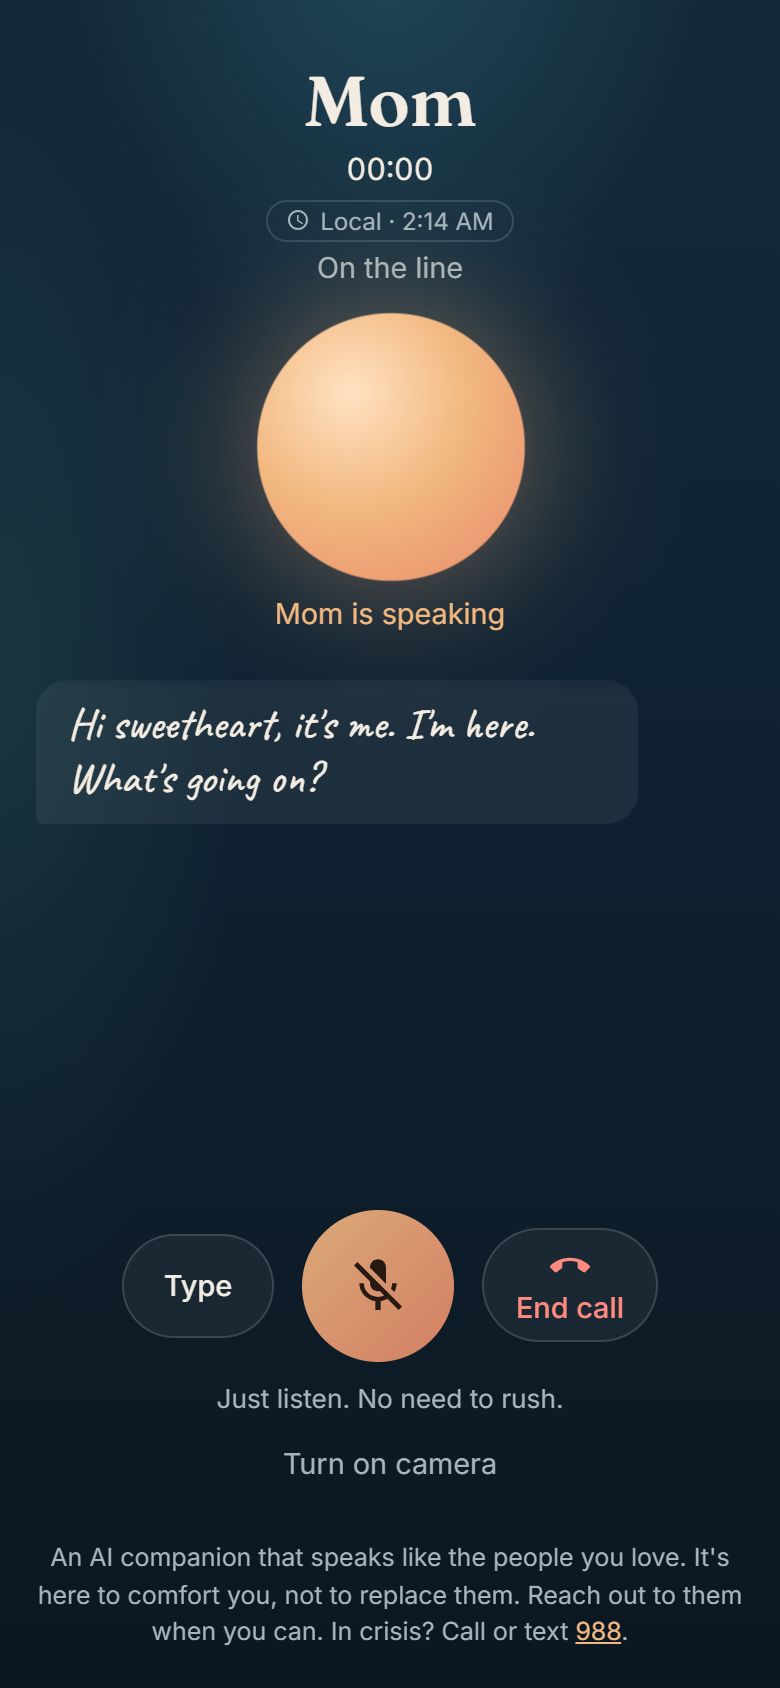
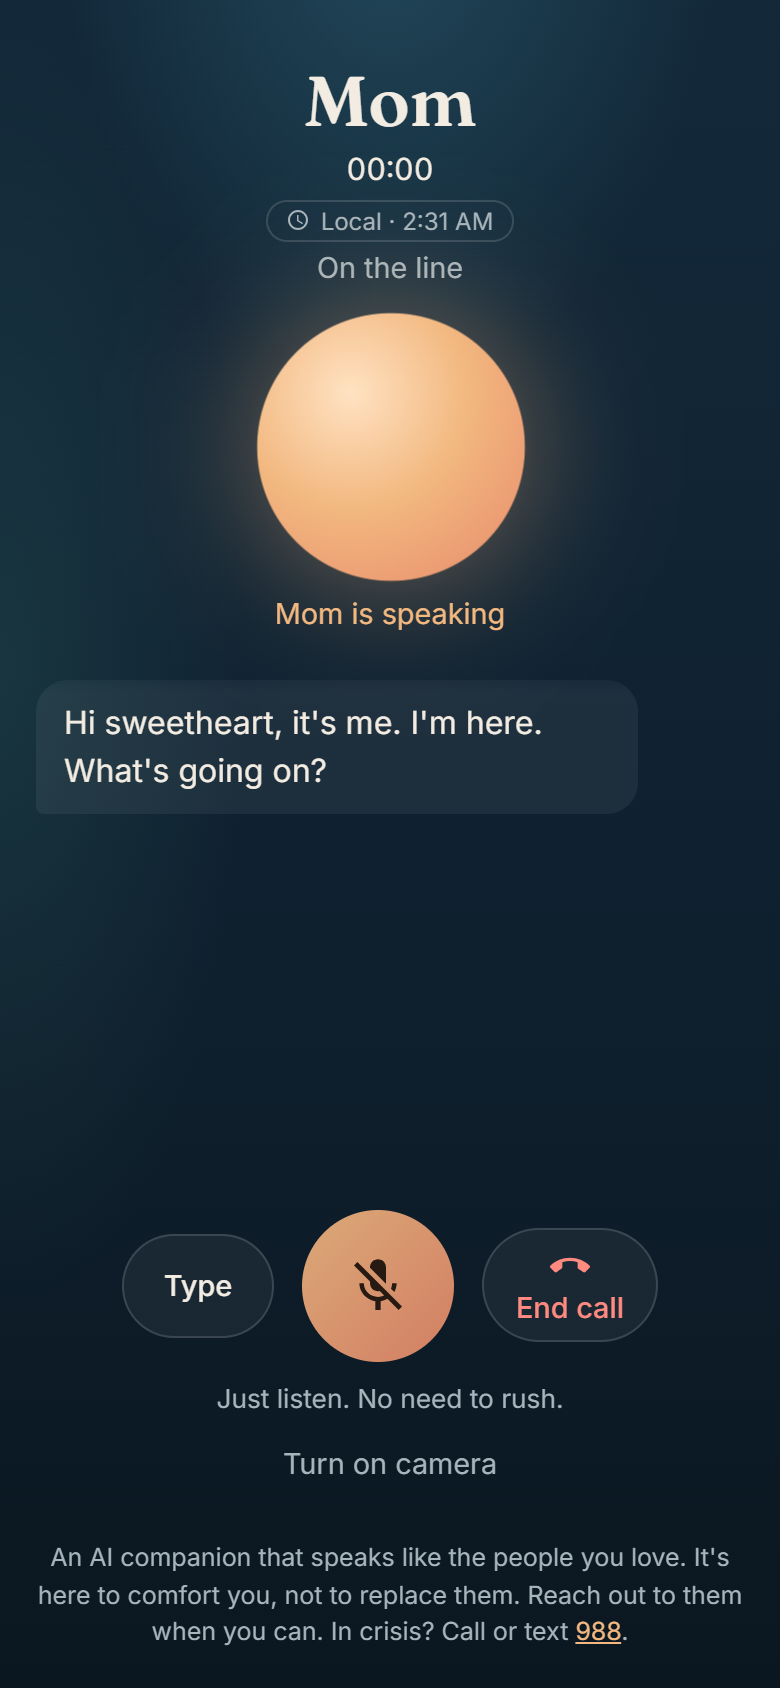
Use one clean font for both sides of the chat
The loved one's replies and their last words on the "Call ended"
screen were in a handwriting font that was hard to read in long
replies. Both sides of the chat now use Inter, and the handwriting
font is no longer loaded. Screenshots and the Devpost composites are
retaken to match.

Changed region(s): [[0.0615, 0.4005, 0.4923, 0.4929], [0.5231, 0.4005, 0.6769, 0.4621], [0.5538, 0.1232, 0.5846, 0.154]]

diff --git a/web/public/index.html b/web/public/index.html
@@ -9,7 +9,7 @@
 <meta name="description" content="A comforting voice from the people you love, for the nights they feel far away.">
 <link rel="preconnect" href="https://fonts.googleapis.com">
 <link rel="preconnect" href="https://fonts.gstatic.com" crossorigin>
-<link href="https://fonts.googleapis.com/css2?family=Caveat:wght@500;600&family=Fraunces:opsz,wght@9..144,400;9..144,600&family=Inter:wght@400;500&display=swap" rel="stylesheet">
+<link href="https://fonts.googleapis.com/css2?family=Fraunces:opsz,wght@9..144,400;9..144,600&family=Inter:wght@400;500&display=swap" rel="stylesheet">
 <style>
   :root {
     color-scheme: dark;                     /* native controls (audio player, checkbox) match */
@@ -183,10 +183,7 @@
   }
   .msg { max-width: 85%; padding: 10px 14px; border-radius: 16px; line-height: 1.45; }
   .msg.you { align-self: flex-end; background: var(--bubble-you); border-bottom-right-radius: 4px; }
-  .msg.them {
-    align-self: flex-start; background: var(--bubble-them); border-bottom-left-radius: 4px;
-    font-family: Caveat, cursive; font-size: 1.35rem; line-height: 1.25; padding: 8px 16px 10px;
-  }
+  .msg.them { align-self: flex-start; background: var(--bubble-them); border-bottom-left-radius: 4px; }
   .msg.interim { opacity: 0.6; font-style: italic; }
   .msg.error { align-self: center; background: none; color: var(--danger); font-size: 0.9rem; text-align: center; }
   .msg .note { display: block; margin-top: 4px; font-size: 0.75rem; color: var(--muted); }
@@ -238,7 +235,7 @@
     align-items: center; text-align: center; gap: 4px; overflow-y: auto;
   }
   .label { color: var(--muted); font-size: 0.85rem; margin: 16px 0 0; }
-  .last-line { font-family: Caveat, cursive; font-size: 1.6rem; line-height: 1.25; max-width: 22em; margin: 4px 0 0; }
+  .last-line { font-size: 1.15rem; line-height: 1.5; max-width: 26em; margin: 4px 0 0; }
   .preview { margin: 4px 0 16px; max-width: 28em; font-size: 0.95rem; }
   #textThem { display: inline-flex; align-items: center; gap: 10px; }
   #textThem svg { width: 20px; height: 20px; }
